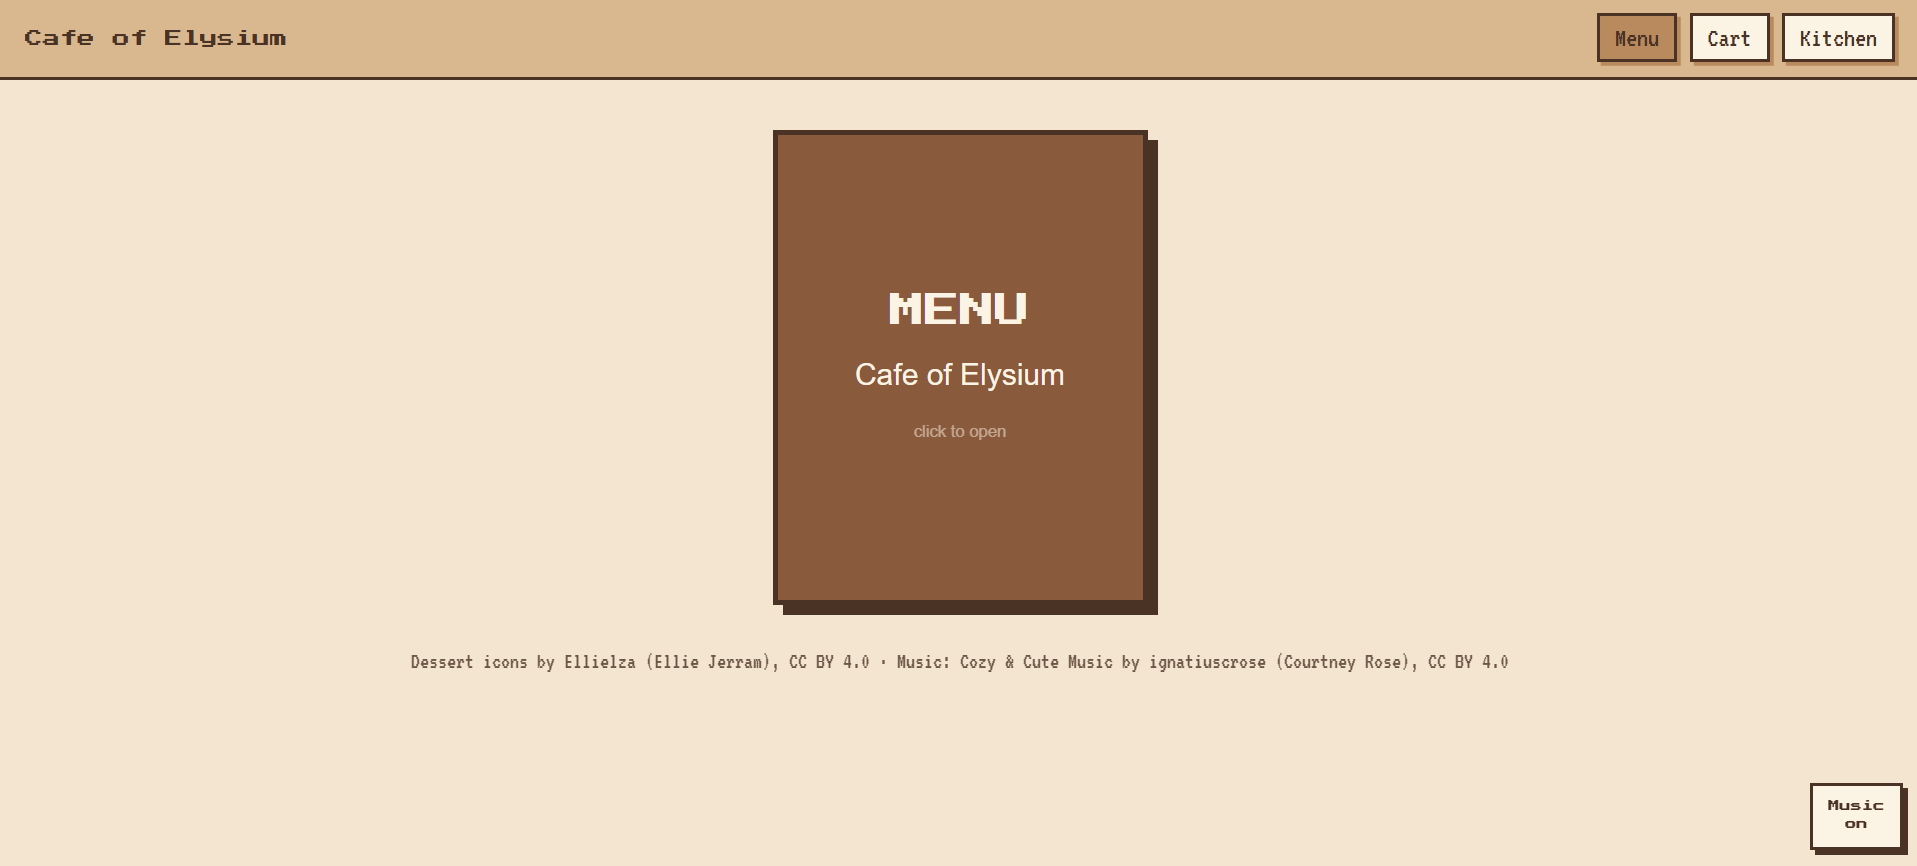
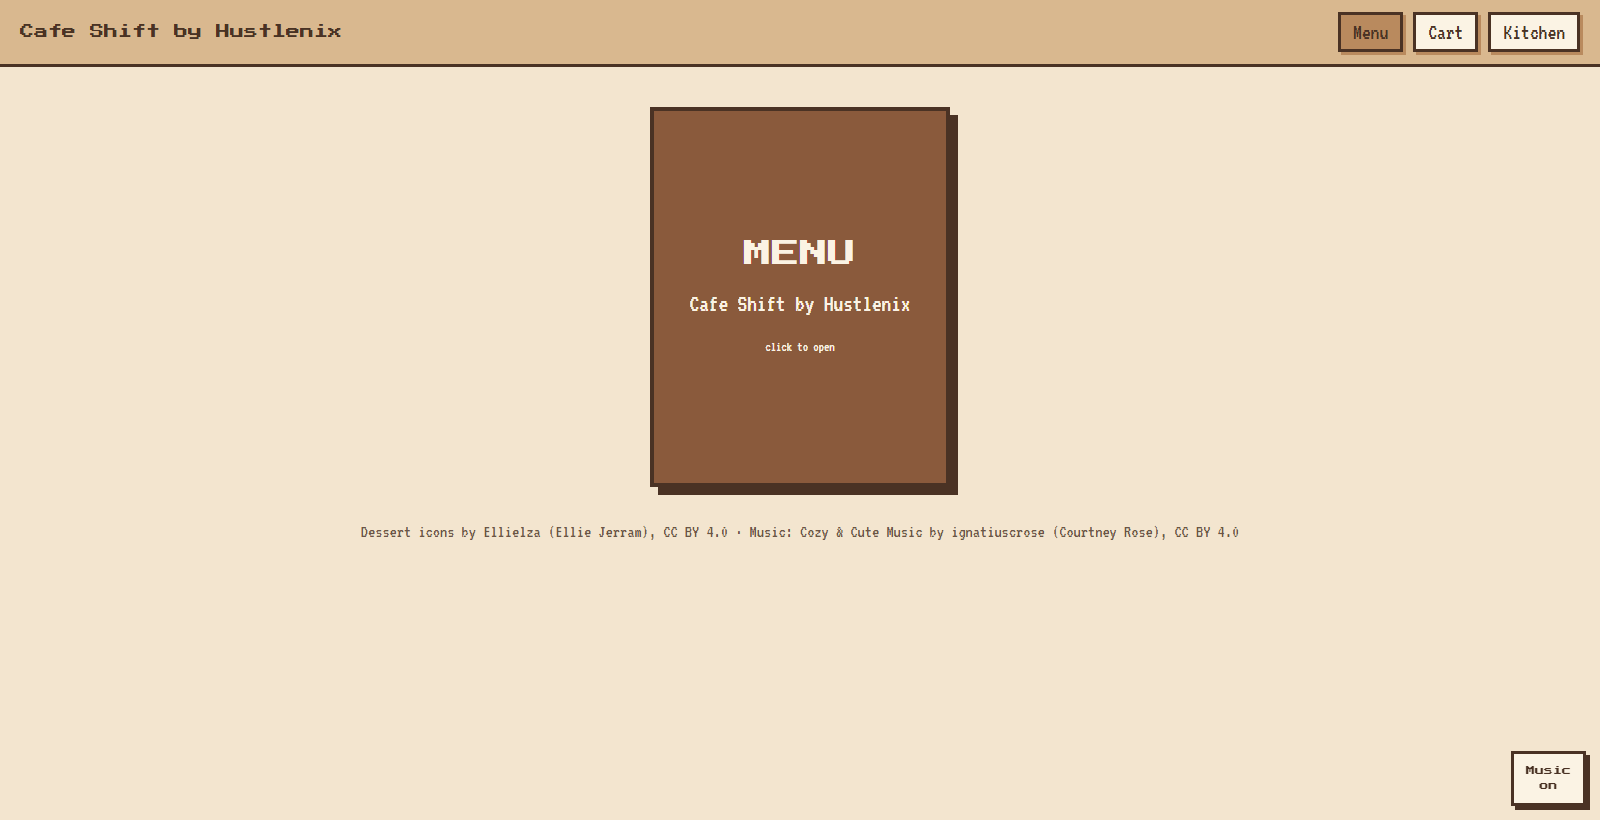
Rebrand to Cafe Shift by Hustlenix
Rename the site, package and repo references to Cafe Shift by Hustlenix, add the byline to the splash screen, and retake the screenshots.

diff --git a/index.html b/index.html
@@ -4,7 +4,7 @@
     <meta charset="UTF-8" />
     <link rel="icon" type="image/png" href="/icons/ChocolateDonut.png" />
     <meta name="viewport" content="width=device-width, initial-scale=1.0" />
-    <title>Cafe of elysium</title>
+    <title>Cafe Shift by Hustlenix</title>
     <link rel="preconnect" href="https://fonts.googleapis.com" />
     <link rel="preconnect" href="https://fonts.gstatic.com" crossorigin />
     <link href="https://fonts.googleapis.com/css2?family=Press+Start+2P&family=VT323&display=swap" rel="stylesheet" />

diff --git a/src/pages/Menu.jsx b/src/pages/Menu.jsx
@@ -18,7 +18,7 @@ export default function Menu() {
                 onClick={() => {sessionStorage.getItem('bookSeen', '1'); setOpen(true)}}
                 >
                     <span className="cover-title">MENU</span>
-                    <span className="cover-sub">Cafe of Elysium</span>
+                    <span className="cover-sub">Cafe Shift by Hustlenix</span>
                     <span className="blink">click to open</span>
                 </button>
             </div>

diff --git a/src/components/Splash.jsx b/src/components/Splash.jsx
@@ -12,7 +12,8 @@ export default function Splash({ onDone }) {
     return (
         <div className={fading ? 'splash fade' : 'splash'} onClick={enter}>
             <img className="icon splash-icon" src="/icons/Croissant.png" alt="" width="96" height="96"/>
-            <h1>CAFE OF<br />ELYSIUM</h1>
+            <h1>CAFE<br />SHIFT</h1>
+            <p className="byline">by hustlenix</p>
             <p className="blink">click to enter</p>
         </div>
     )

diff --git a/src/index.css b/src/index.css
@@ -300,6 +300,14 @@ h3 { font-size: 14px; margin-top: 28px;}
 .splash h1 { font-size: 26px; line-height: 1.6; margin: 0;}
 .splash small { position: absolute; bottom: 24px; opacity: 0.6; }
 
+.splash .byline {
+  font-family: 'VT323', monospace;
+  font-size: 22px;
+  letter-spacing: 1px;
+  opacity: 0.7;
+  margin: -10px 0 0;
+}
+
 .splash-icon { animation: hop 0.8s steps(2) infinite;}
 
 .dots span { animation: blink 1s steps(2) infinite;}

diff --git a/src/App.jsx b/src/App.jsx
@@ -21,7 +21,7 @@ export default function App() {
   />
 )}
       <header>
-        <NavLink to="/" className="logo">Cafe of Elysium</NavLink>
+        <NavLink to="/" className="logo">Cafe Shift by Hustlenix</NavLink>
         <nav>
           <NavLink to="/" end>Menu</NavLink>
           <NavLink to="/cart">Cart{count > 0 && <span className="badge">{count}</span>}</NavLink>

diff --git a/README.md b/README.md
@@ -1,8 +1,8 @@
-## Cafe of Elysium
+## Cafe Shift by Hustlenix
 
 A cozy pixel-art cafe ordering system. Browse the menu book, fill up your tray, send the order, and watch it show up on the kitchen's ticket rail.
 
-[**Live Demo**](https://cafe-of-elysium.vercel.app/)
+Live demo: _link coming soon, redeploying under Hustlenix._
 
 ![The open menu book](screenshots/menu.png)
 
@@ -63,8 +63,8 @@ The orders are saved in the localStorage, so the sync works between tabs in one 
 ## Run it locally
 
 ```
-git clone https://github.com/shiz1ee/Cafe-of-Elysium.git
-cd Cafe-of-Elysium
+git clone https://github.com/Hustlenix/Cafe-Shift.git
+cd Cafe-Shift
 npm install
 npm run dev
 ```
